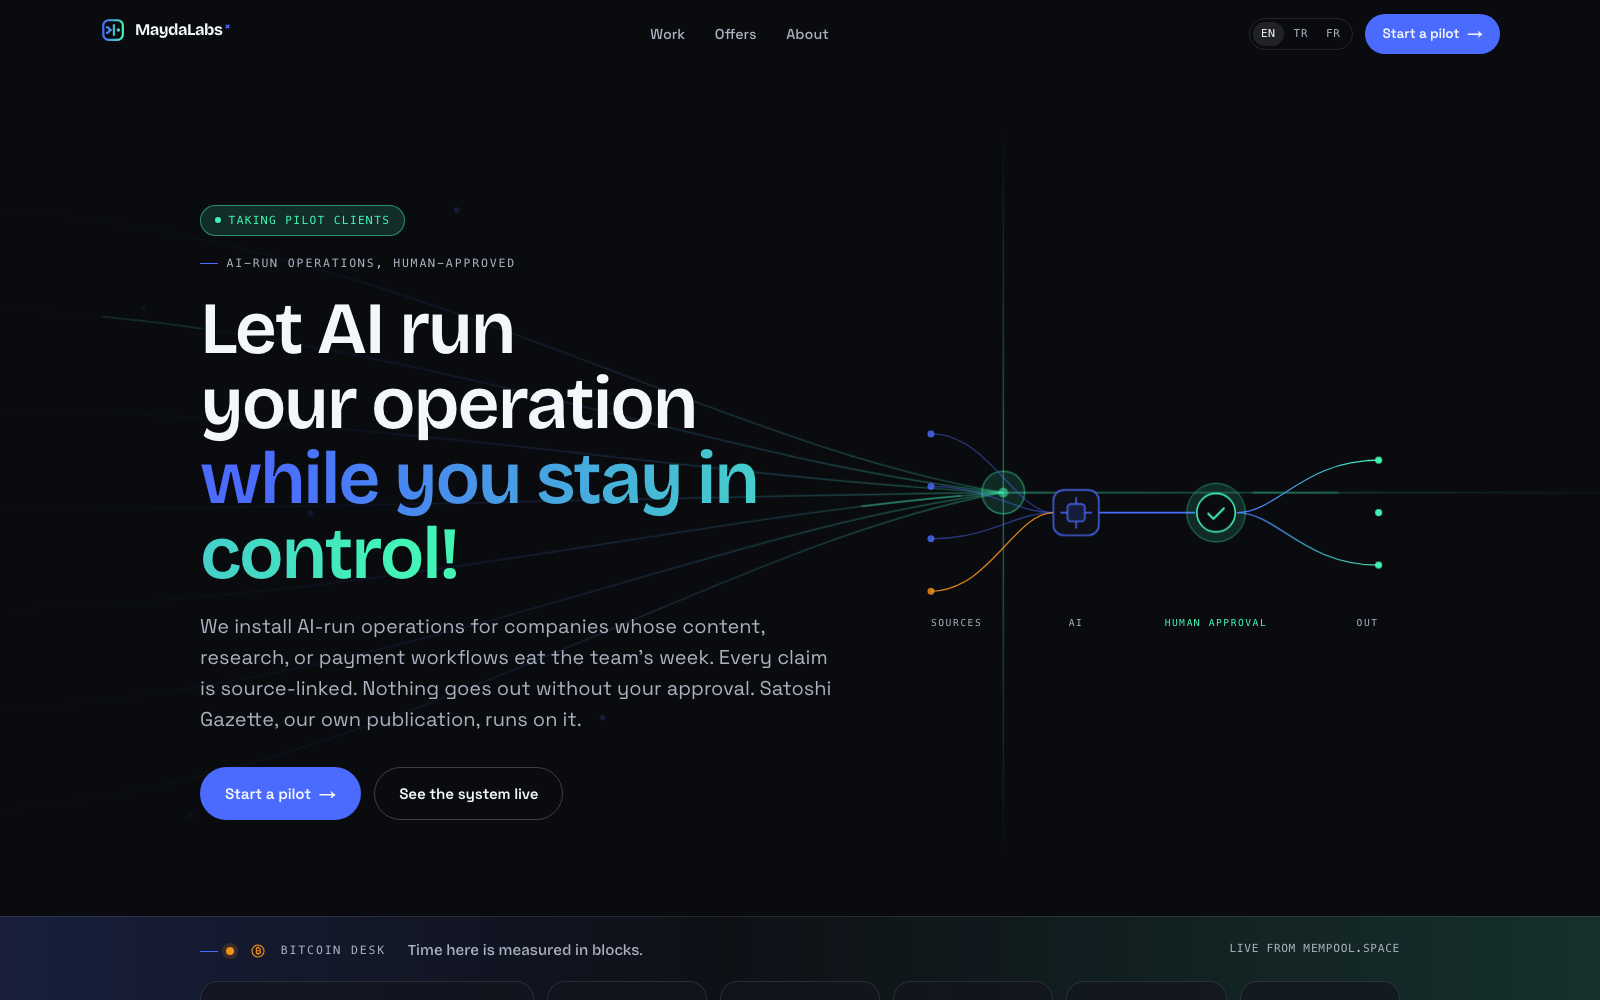
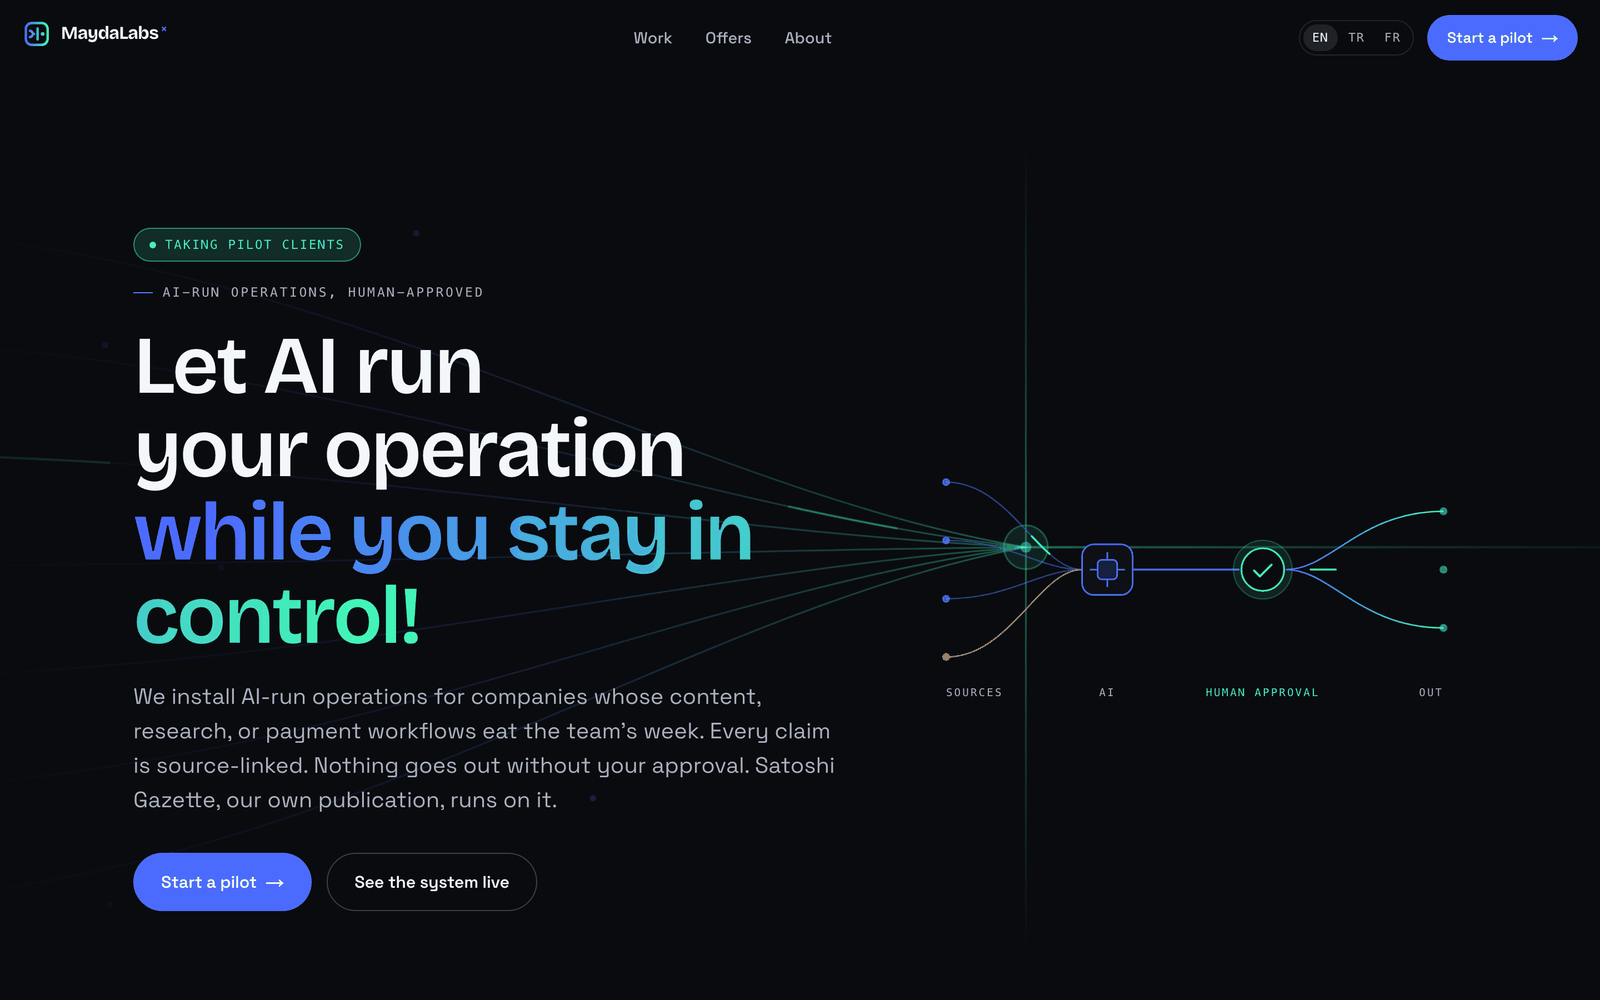
README: MaydaOS as it is now, and a screenshot of the shell it actually runs
The old section described an interactive lab with a windowed shell and block
telemetry. That stopped being true when the OS came back as the client-facing
product: five apps behind sign-in, the dock made of links so each app is its
own server-rendered address, and the Desk producing work that a person has to
approve before it goes anywhere.

The screenshot was of the old lab. Replaced with the current shell, and the
home screenshots re-taken at 2x — the previous narrow-viewport one was clipped,
because headless Chrome clamps its layout viewport to 500px and the capture
was made at 390.

Also point the reading list at the three OS modules worth opening: the guarded
source fetch, the structured draft that strips a citation the model was never
given, and the run itself.

diff --git a/README.md b/README.md
@@ -21,6 +21,8 @@ now.
 
 ![MaydaLabs home](docs/screens/2026-09-home.png)
 
+<img src="docs/screens/2026-09-home-mobile.png" alt="MaydaLabs on a narrow viewport" width="320" />
+
 ## What this repository is
 
 The MaydaLabs platform: the public marketing surface, an authenticated client
@@ -42,6 +44,9 @@ these:
 | `lib/bitcoinAddress.ts` | Address checksum validation, run by the server action before anything is written. |
 | `lib/supabase/` | Server and browser clients, typed against a generated database schema. |
 | `lib/rateLimit.ts` | Rate limiting on the public intake path. |
+| `lib/osSources.ts` | Fetching pages on behalf of a signed-in stranger is a server-side request forgery hole unless it is guarded. Every hostname is resolved before the request and anything private, loopback, or link-local is refused, redirects are not followed, and responses are capped and stripped to text. |
+| `lib/osDraft.ts` | One model call, structured output, every claim returned beside the source it came from or explicitly beside nothing. A citation to a URL the model was never given is replaced with null before anything is stored, because a model naming a source it never read is not evidence. |
+| `app/actions/os.ts` | A MaydaOS run end to end: gather the sources, draft, record the tokens and the dollar cost, and wait for a person to decide. |
 | `app/[lang]/` | Localized routing and metadata composition across English, Turkish, and French. |
 | `lib/i18n.ts`, `lib/metadata.ts` | Localization and metadata kept out of presentation. |
 | `scripts/smoke.mjs` | Dependency-free production verification: routes, redirects, localized metadata, robots, sitemap, social images, and the public telemetry response. |
@@ -120,26 +125,37 @@ demo-safe and does not claim a public launch or real payments.
   </tr>
 </table>
 
-## MaydaOS, the interactive lab
+## MaydaOS
 
-MaydaLabs is the company. [MaydaOS](https://maydalabs.com/os) is its
-interactive lab: a working interface for exploring how ideas, products,
-workflows, growth, and security connect, without making the commercial
-homepage harder to understand.
+![MaydaOS: the system bar, the dock, and one app in the window](docs/screens/2026-09-maydaos.png)
 
-It is built into the current site rather than bolted beside it, and it is a
-fair sample of interface engineering: a windowed lab shell with its own
-navigation, live telemetry that reads Bitcoin block height from mempool.space,
-and motion that respects a reduced-motion preference.
+MaydaOS came back as an operating system rather than a wallpaper. The frame is a
+system bar, a dock, a window, and a status bar. What changed is underneath: the
+dock is made of links, so every app is its own address that can be deep-linked,
+bookmarked, and server-rendered, instead of tabs inside one client component.
 
-![MaydaOS, the interactive lab](docs/screens/2026-09-maydaos-lab.png)
+[The lab](https://maydalabs.com/os) is open to anyone and shows how the pieces
+connect. Behind sign-in, the same shell runs five apps — Desk, Record, Pilot,
+Account, Terminal — and the Desk is the product rather than a picture of it: a
+person hands it links, the model produces the piece with every claim attached to
+the source it came from, and nothing leaves until they approve it. The Record
+keeps what happened, including the runs they rejected.
+
+The beta gives ten credits for life. One credit is one model call; adding
+sources, previewing exactly what will be sent, editing, approving, rejecting and
+re-reading the record cost nothing, and a run that fails is recorded but not
+charged. [`docs/maydaos-beta.md`](docs/maydaos-beta.md) has the reasoning, the
+cost per run, and the daily ceiling.
+
+It is still being built. The operator view of beta usage, one-click top-ups, and
+revising a draft are all deliberately unfinished.
 
 ## Architecture
 
 ```text
 app/[lang]/       Localized pages, metadata, and route composition
 app/[lang]/portal Authenticated client portal
-app/[lang]/os     The MaydaOS interface lab
+app/[lang]/os     MaydaOS: the public lab and the five signed-in apps
 app/api/          Public telemetry endpoint
 components/       Interface, forms, diagrams, and case-study components
 lib/              Payments, Bitcoin address validation, Supabase clients,
